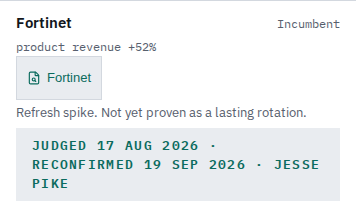
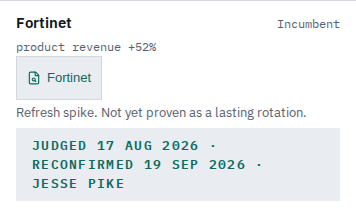
fix(reconfirm): keep each stamp segment unbreakable so a phone width can't split a name or date
The reconfirmed stamp could wrap mid-word at 390px ("Jesse" / "Pike" on
separate lines in the Platform-pressure crop). Each of the three exports in
JudgedStamp.tsx now wraps its three segments ("JUDGED <date>", "RECONFIRMED
<date>", the name) in a .stamp-segment span (white-space: nowrap,
web/src/index.css) in the reconfirmed branch only, so a line can only break
at a separator. The no-reconfirmation branch is untouched and still
byte-identical to preview.

Re-verified dist parity for /, /thesis/ and /issues/2026-w36/ after merging
origin/preview (one conflict, scripts/README.md, both paragraphs kept) and
after this fix: all three still byte-identical. Re-captured the 390
Platform-pressure crop with the temporary local fixture, then removed it.

Claude-Session: https://claude.ai/code/session_01AdcpLzcT3PoSBWQ7nuRLAT

Changed region(s): [[0.7725, 0.729, 0.8961, 0.8131], [0.0927, 0.8131, 0.2163, 0.8972], [0.2472, 0.8131, 0.3399, 0.8972]]

diff --git a/web/src/components/JudgedStamp.tsx b/web/src/components/JudgedStamp.tsx
@@ -9,7 +9,12 @@ import { AUTHOR_NAME } from '../data/meta'
  * never change on the page until an owner-approved reconfirmation exists.
  * With one, both dates show, honestly: "JUDGED <date> · RECONFIRMED <date> ·
  * NAME". `by` is always `AUTHOR_NAME` (validated in verify-issue.ts's
- * reconfirmations check), so this never takes a name prop.
+ * reconfirmations check), so this never takes a name prop. The reconfirmed
+ * form only — never the no-reconfirmation form, which must stay untouched —
+ * wraps each of its three segments ("JUDGED <date>", "RECONFIRMED <date>",
+ * the name) in a `.stamp-segment` span (`white-space: nowrap` in
+ * index.css), so a narrow phone screen wraps the line between segments
+ * rather than inside one, e.g. splitting "Jesse" from "Pike".
  *
  * Three shapes exist, not one, because the four call sites wrote this stamp
  * as three different literal JSX structures before this refactor, and
@@ -49,8 +54,14 @@ export function JudgedStamp({
   }
   return (
     <p className="stamp-label">
-      JUDGED <time dateTime={judgedOn}>{formatShortDate(judgedOn)}</time> &middot; RECONFIRMED{' '}
-      <time dateTime={reconfirmedOn}>{formatShortDate(reconfirmedOn)}</time> &middot; {AUTHOR_NAME}
+      <span className="stamp-segment">
+        JUDGED <time dateTime={judgedOn}>{formatShortDate(judgedOn)}</time>
+      </span>{' '}
+      &middot;{' '}
+      <span className="stamp-segment">
+        RECONFIRMED <time dateTime={reconfirmedOn}>{formatShortDate(reconfirmedOn)}</time>
+      </span>{' '}
+      &middot; <span className="stamp-segment">{AUTHOR_NAME}</span>
     </p>
   )
 }
@@ -72,9 +83,14 @@ export function JudgedStampSpaced({
   }
   return (
     <p className="stamp-label">
-      JUDGED <time dateTime={judgedOn}>{formatShortDate(judgedOn)}</time> &middot; RECONFIRMED{' '}
-      <time dateTime={reconfirmedOn}>{formatShortDate(reconfirmedOn)}</time> &middot;{' '}
-      {AUTHOR_NAME}
+      <span className="stamp-segment">
+        JUDGED <time dateTime={judgedOn}>{formatShortDate(judgedOn)}</time>
+      </span>{' '}
+      &middot;{' '}
+      <span className="stamp-segment">
+        RECONFIRMED <time dateTime={reconfirmedOn}>{formatShortDate(reconfirmedOn)}</time>
+      </span>{' '}
+      &middot; <span className="stamp-segment">{AUTHOR_NAME}</span>
     </p>
   )
 }
@@ -97,11 +113,14 @@ export function JudgedStampStacked({
   }
   return (
     <p className="stamp-label">
-      JUDGED{' '}
-      <time dateTime={judgedOn}>{formatShortDate(judgedOn)}</time>{' '}
-      &middot; RECONFIRMED{' '}
-      <time dateTime={reconfirmedOn}>{formatShortDate(reconfirmedOn)}</time>{' '}
-      &middot; {AUTHOR_NAME}
+      <span className="stamp-segment">
+        JUDGED <time dateTime={judgedOn}>{formatShortDate(judgedOn)}</time>
+      </span>{' '}
+      &middot;{' '}
+      <span className="stamp-segment">
+        RECONFIRMED <time dateTime={reconfirmedOn}>{formatShortDate(reconfirmedOn)}</time>
+      </span>{' '}
+      &middot; <span className="stamp-segment">{AUTHOR_NAME}</span>
     </p>
   )
 }

diff --git a/web/tests/reconfirmations.test.ts b/web/tests/reconfirmations.test.ts
@@ -461,4 +461,24 @@ describe('JudgedStamp', () => {
       assert.match(markup, /<time dateTime="2026-11-02">/)
     }
   })
+
+  it('wraps each reconfirmed segment in .stamp-segment (nowrap) so a phone width breaks between segments, not inside a name or date', () => {
+    for (const Component of [JudgedStamp, JudgedStampSpaced, JudgedStampStacked]) {
+      const markup = renderToString(
+        createElement(Component, { judgedOn: '2026-08-16', reconfirmedOn: '2026-11-02' }),
+      )
+      const segments = [...markup.matchAll(/<span class="stamp-segment">(.*?)<\/span>/g)].map((m) => m[1])
+      assert.equal(segments.length, 3)
+      assert.match(segments[0], /^JUDGED/)
+      assert.match(segments[1], /^RECONFIRMED/)
+      assert.equal(segments[2], 'Jesse Pike')
+    }
+  })
+
+  it('never wraps a segment span around the no-reconfirmation form', () => {
+    for (const Component of [JudgedStamp, JudgedStampSpaced, JudgedStampStacked]) {
+      const markup = renderToString(createElement(Component, { judgedOn: '2026-08-16', reconfirmedOn: null }))
+      assert.doesNotMatch(markup, /stamp-segment/)
+    }
+  })
 })

diff --git a/web/src/index.css b/web/src/index.css
@@ -1907,6 +1907,16 @@ summary:focus-visible,
   color: var(--color-text-muted);
 }
 
+/* Only present once a claim carries a reconfirmation (JudgedStamp.tsx) — the
+   stamp then has three segments ("JUDGED <date>", "RECONFIRMED <date>", the
+   name), and at phone widths the line wraps between segments rather than
+   inside one of them (e.g. splitting "JESSE" from "PIKE"). The
+   no-reconfirmation stamp never renders this class, so this rule changes
+   nothing about it. */
+.stamp-segment {
+  white-space: nowrap;
+}
+
 .rail {
   background: var(--color-heading);
 }

diff --git a/docs/active/fable-run/evidence/reconfirm/report.md b/docs/active/fable-run/evidence/reconfirm/report.md
@@ -41,6 +41,16 @@ overflow, no overlapping text — it just takes visibly more vertical space than
 never-reconfirmed stamp. Screenshots: `domain-board-stamp-1440.png`, `domain-board-stamp-390.png`,
 `platform-pressure-stamp-390.png`.
 
+**Follow-up fix.** The first Platform-pressure capture (since replaced) showed the name itself
+breaking mid-word — "Jesse" on one line, "Pike" on the next — because nothing stopped a normal
+line break from landing inside a segment. The reconfirmed form only (never the no-reconfirmation
+form) now wraps each of its three segments (`JUDGED <date>`, `RECONFIRMED <date>`, the name) in a
+`.stamp-segment` span with `white-space: nowrap` (`web/src/index.css`), so a narrow screen can
+only break the line at a separator, never inside a date or a name. Re-captured
+`platform-pressure-stamp-390.png` now shows "JESSE PIKE" together on its own line, and the
+narrower `domain-board-stamp-390.png` was already wrapping at a safe point and is byte-identical
+to the earlier capture.
+
 ## Claim id scheme
 
 `${kind}:${id}` reusing each claim type's own existing stable id — `domain:network-sase`,
@@ -50,16 +60,21 @@ never-reconfirmed stamp. Screenshots: `domain-board-stamp-1440.png`, `domain-boa
 
 ## Test counts
 
-- `web/tests/reconfirmations.test.ts`: 33 tests, all passing (helpers, staleness, validation,
-  `computeReconfirmations` — all 5 required scenarios plus 2 extra — module regeneration, and
-  three `JudgedStamp` byte-identical checks).
-- `npm run test:data` (all data test files): 187 tests, 0 failures.
+- `web/tests/reconfirmations.test.ts`: 35 tests, all passing (helpers, staleness, validation,
+  `computeReconfirmations` — all 5 required scenarios plus 2 extra — module regeneration, three
+  `JudgedStamp` byte-identical checks, plus two added for the segment-wrap fix: the reconfirmed
+  form always has exactly three `.stamp-segment` spans, and the no-reconfirmation form never has
+  the class at all).
+- `npm run test:data` (all data test files): 189 tests, 0 failures.
 - `npm run lint`: 0 warnings, 0 errors.
-- `npm run build` (full chain, including new `verify:issue` check 17
-  `reconfirmations-valid`): passes.
+- `npm run build` (full chain, including `verify:issue` check 17 `reconfirmations-valid`):
+  passes.
 - `npm run test:e2e`: 37 passed, 1 skipped, matching the pre-existing baseline exactly — no
   e2e test needed to change for this feature.
-- `npm test` (lint + test:data + build + test:e2e) run end to end: passes.
+- `npm test` (lint + test:data + build + test:e2e) run end to end: passes, re-run after merging
+  `origin/preview` and the segment-wrap fix.
+- `bash scripts/test-publish-issue.sh`: all checks pass, including the `--reconfirm` flag
+  construction test and the end-to-end release-phase push-order test.
 
 ## Dry-run results, both flag values
 
@@ -88,6 +103,15 @@ plumbing that only runs on a real pull request; the dry run above starts from `R
 already resolved, matching how `scripts/test-publish-issue.sh`'s existing guard-logic tests treat
 it. Live promotion to `main` and the fifteen-minute site poll (step 8) are also unverifiable
 outside GitHub and were not exercised (`DRY_RUN=1` skips all pushes and the poll by design).
+
+## Merge with preview
+
+`origin/preview` moved on since this branch was cut (the weekly gather's shell-permission
+allowlist and login fixes). Merged clean except one conflict in `scripts/README.md`, on two
+independent paragraphs added on each side (the `reconfirm` word here, the allowed-tools/login
+fix there); kept both. The full dist-parity check (`/`, `/thesis/`, `/issues/2026-w36/`) was
+re-run after the merge and after the segment-wrap fix: all three routes are still byte-identical
+between `origin/preview` and this branch.
 
 ## What was noticed and left alone
 
